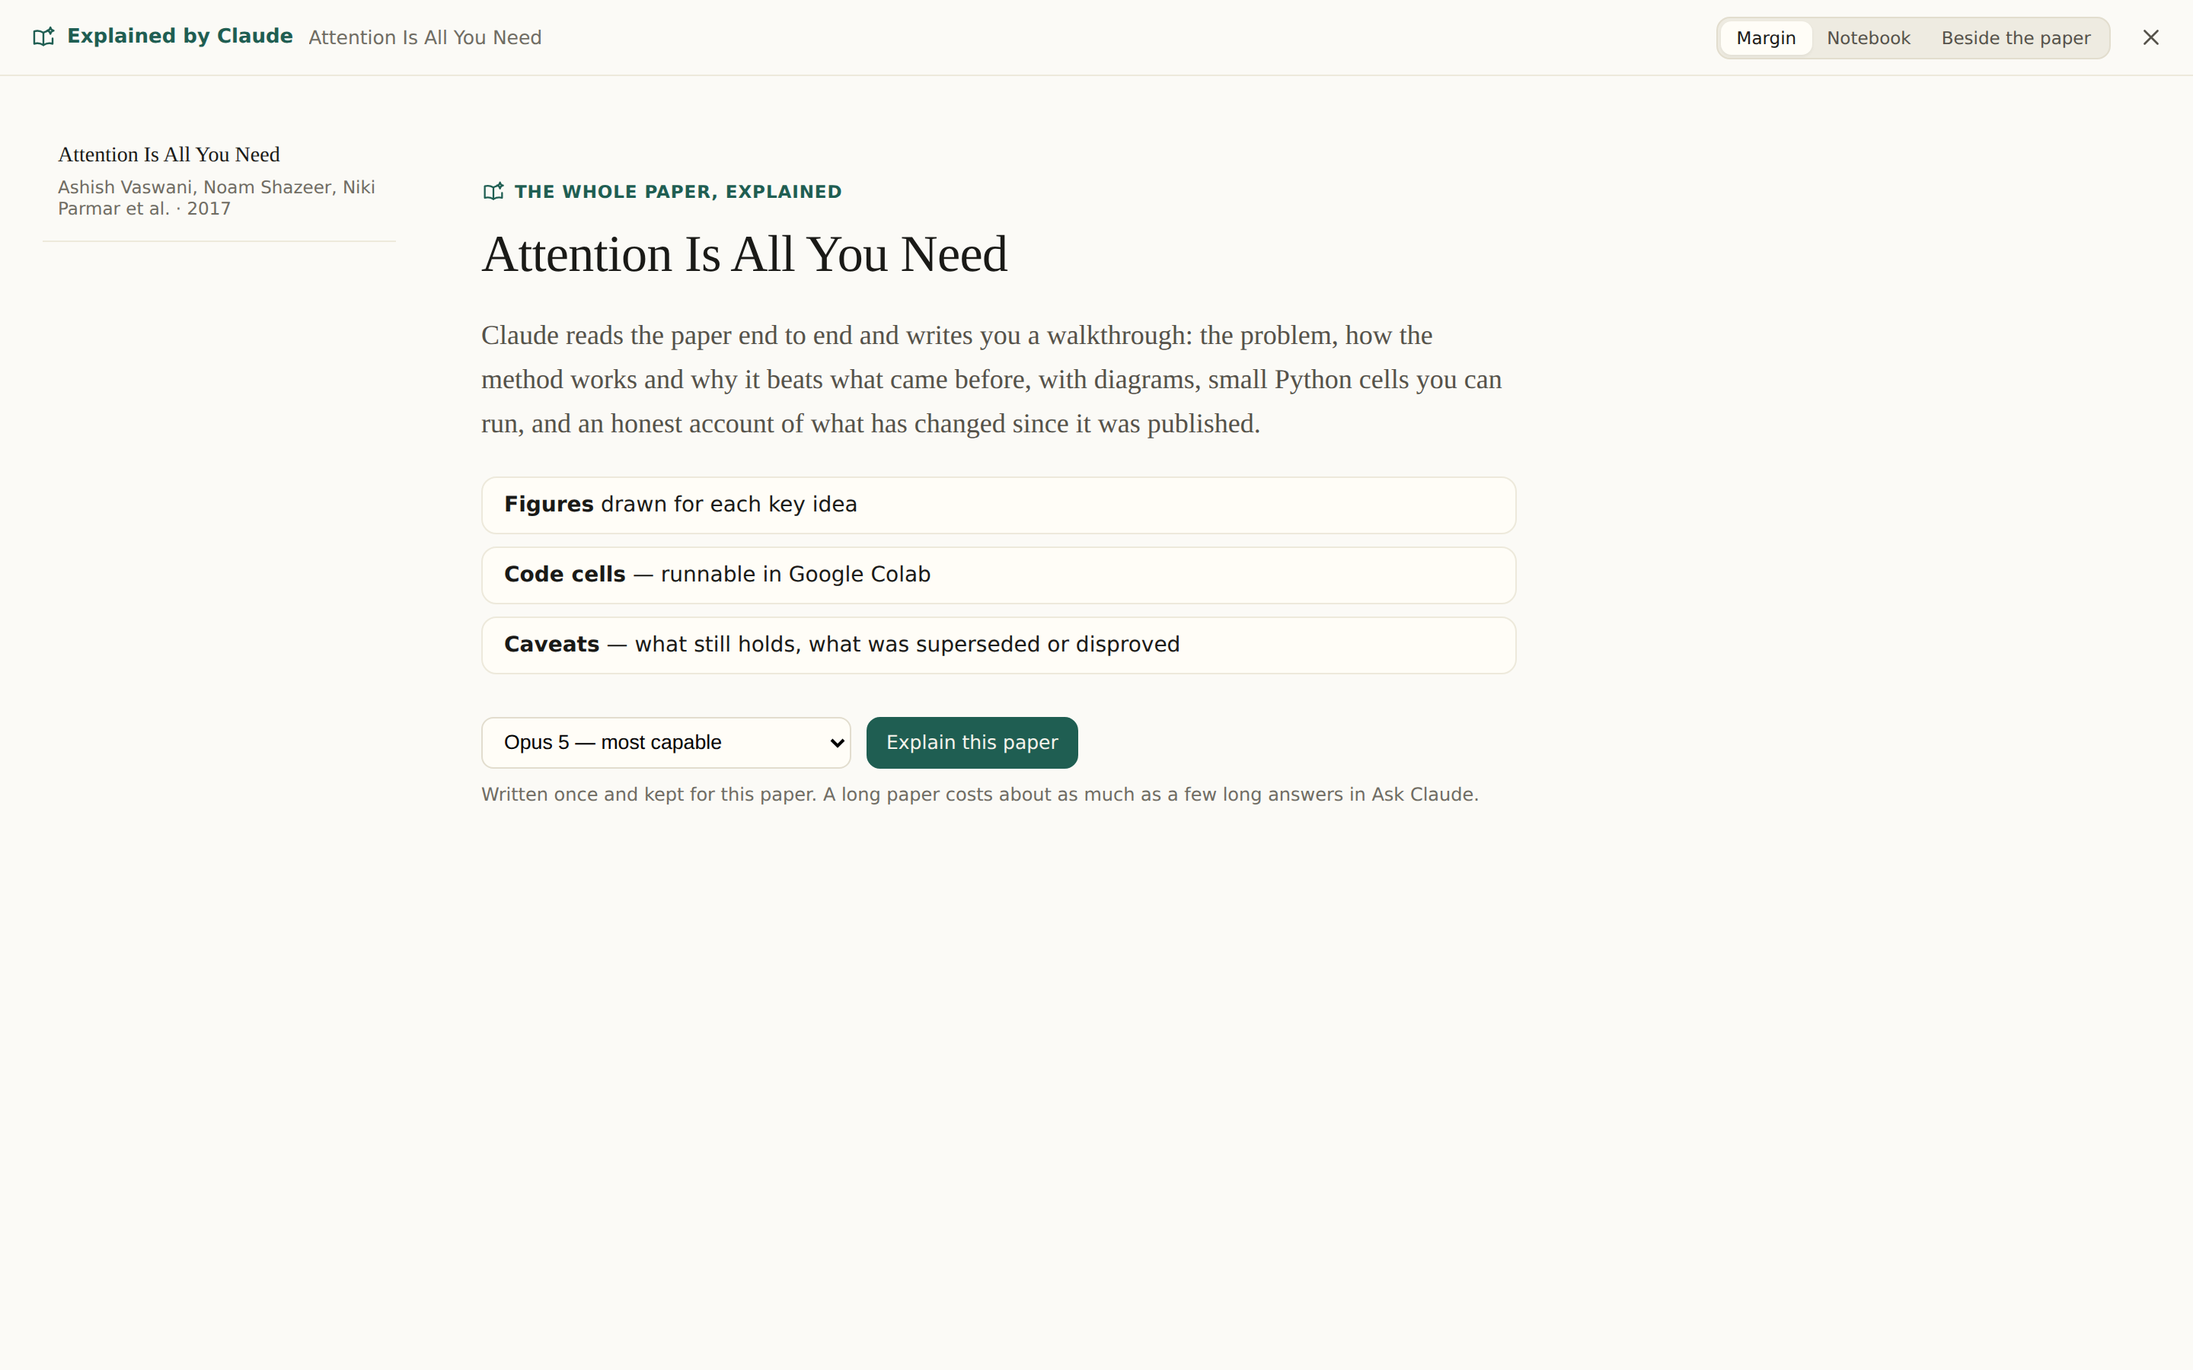
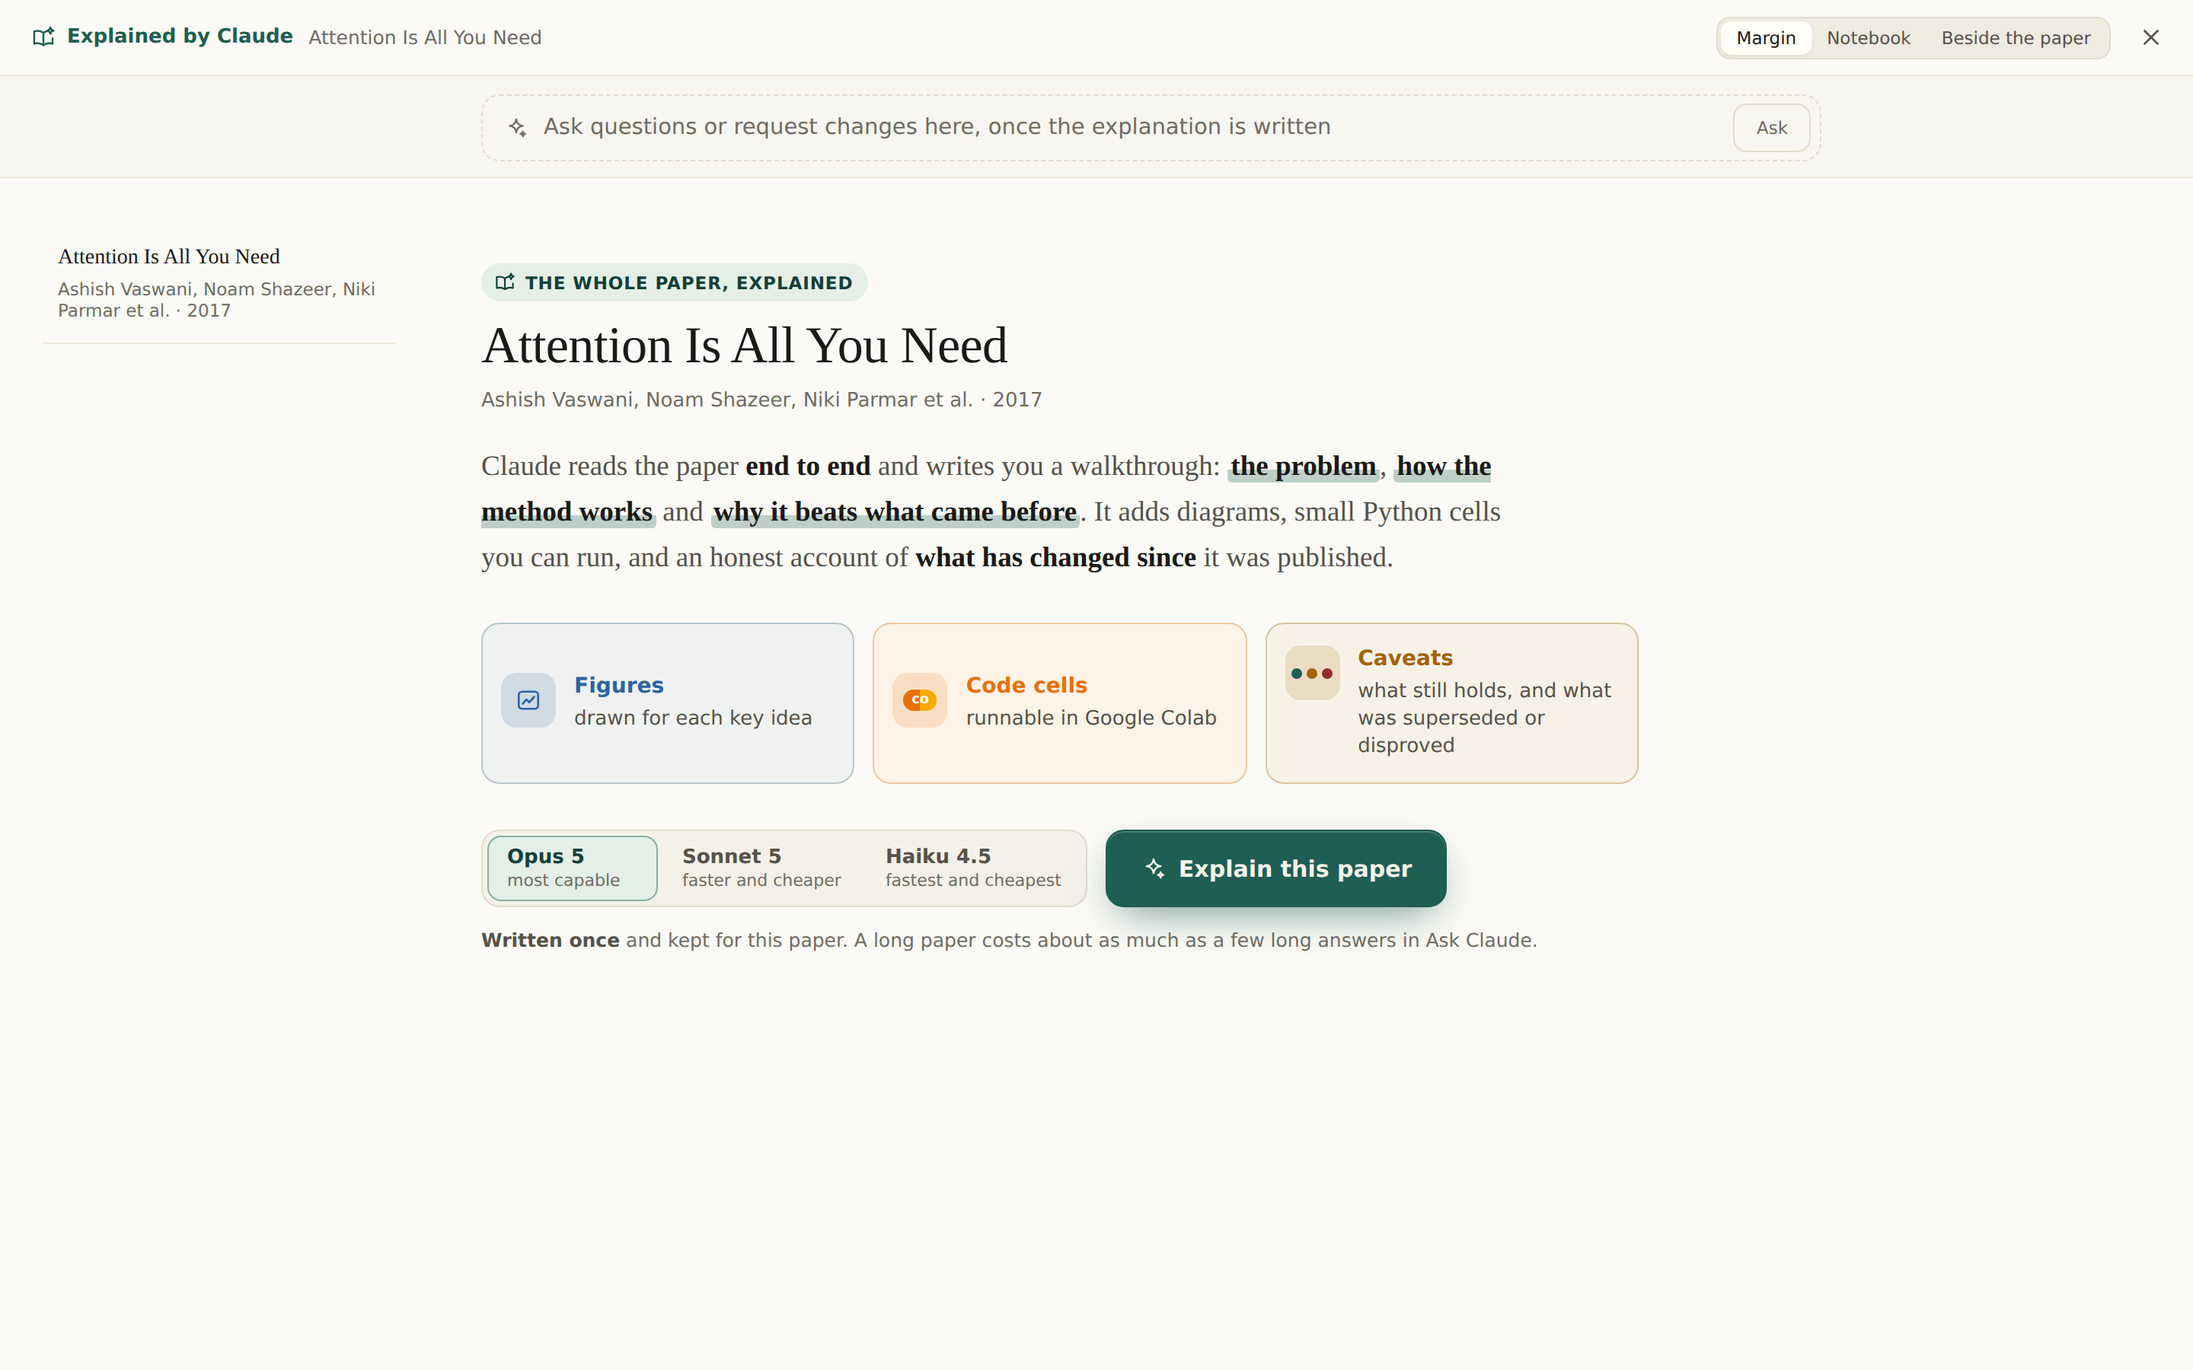
Explain: frost the page in glass, and give the start screen a hierarchy
In glass the page blurs the reader behind it instead of letting its text
show through sharp, keeping the wallpaper's colour. The start screen gets a
pill kicker, the byline, key phrases marked in the lede, three coloured
cards (figures, code cells, caveats), the model as a picker rather than a
select, and a larger Explain button. The ask bar is dashed and muted until
there is a page to ask about, and bold in the explanation reads as a
highlighter stroke. The smoke test photographs dark and light glass.

Claude-Session: https://claude.ai/code/session_01JRvxerTSNWCdTXjyRBgBbC

diff --git a/src/components/Explain.tsx b/src/components/Explain.tsx
@@ -423,7 +423,7 @@ export default function Explain({ paperId, title, authors, published, screen, on
       <div className="explain-ask">
         <div className="ask-column">
           <form
-            className={`ask-field${busy ? ' is-busy' : ''}${askFocused ? ' is-focused' : ''}`}
+            className={`ask-field${busy ? ' is-busy' : ''}${askFocused ? ' is-focused' : ''}${!canAsk ? ' is-off' : ''}`}
             onSubmit={(event) => {
               event.preventDefault();
               void submit();
@@ -466,7 +466,7 @@ export default function Explain({ paperId, title, authors, published, screen, on
               }}
               placeholder={
                 !explanation?.content
-                  ? 'Once the explanation is written, ask about it or change it here'
+                  ? 'Ask questions or request changes here, once the explanation is written'
                   : scope.section || scope.quote
                     ? 'Ask about this, or say how to change it…'
                     : 'Ask anything about this explanation, or tell Claude how to change it…  ( / )'
@@ -575,53 +575,83 @@ export default function Explain({ paperId, title, authors, published, screen, on
         <article className="explain-doc" onMouseUp={takeSelection}>
           {!explanation?.content && checked && !streaming ? (
             <div className="explain-empty">
-              <div className="explain-kicker">
-                <ExplainIcon size={16} /> The whole paper, explained
+              <div className="explain-kicker pill">
+                <ExplainIcon size={15} /> The whole paper, explained
               </div>
               <h1>{title}</h1>
-              <p>
-                Claude reads the paper end to end and writes you a walkthrough: the problem, how the method works and why it beats what came before,
-                with diagrams, small Python cells you can run, and an honest account of what has changed since it was published.
+              {byline ? <div className="byline">{byline}</div> : null}
+              <p className="explain-lede">
+                Claude reads the paper <b>end to end</b> and writes you a walkthrough: <mark>the problem</mark>, <mark>how the method works</mark> and{' '}
+                <mark>why it beats what came before</mark>. It adds diagrams, small Python cells you can run, and an honest account of{' '}
+                <b>what has changed since</b> it was published.
               </p>
               <ul className="explain-promises">
-                <li>
-                  <b>Figures</b> drawn for each key idea
+                <li className="p-figures">
+                  <span className="promise-icon" aria-hidden="true">
+                    <svg viewBox="0 0 24 24" width="18" height="18" fill="none" stroke="currentColor" strokeWidth="1.8" strokeLinecap="round" strokeLinejoin="round">
+                      <rect x="3.5" y="4.5" width="17" height="15" rx="3" />
+                      <path d="M7 15l3.2-3.6 2.6 2.4L17 9" />
+                    </svg>
+                  </span>
+                  <b>Figures</b>
+                  <span>drawn for each key idea</span>
                 </li>
-                <li>
-                  <b>Code cells</b> — runnable in Google Colab
+                <li className="p-code">
+                  <span className="promise-icon" aria-hidden="true">
+                    <span className="colab-mark">co</span>
+                  </span>
+                  <b>Code cells</b>
+                  <span>runnable in Google Colab</span>
                 </li>
-                <li>
-                  <b>Caveats</b> — what still holds, what was superseded or disproved
+                <li className="p-caveats">
+                  <span className="promise-icon" aria-hidden="true">
+                    <span className="dots">
+                      <i className="v-holds" />
+                      <i className="v-superseded" />
+                      <i className="v-disproved" />
+                    </span>
+                  </span>
+                  <b>Caveats</b>
+                  <span>what still holds, and what was superseded or disproved</span>
                 </li>
               </ul>
               {assistant.hasKey ? (
-                <div className="explain-start">
-                  <select value={model} onChange={(event) => setModel(event.target.value)} aria-label="Model">
-                    {MODELS.map((m) => (
-                      <option key={m.id} value={m.id}>
-                        {m.label} — {m.note}
-                      </option>
-                    ))}
-                  </select>
-                  <button type="button" className="btn primary" onClick={() => void start()}>
-                    Explain this paper
-                  </button>
-                  <span className="hint">Written once and kept for this paper. A long paper costs about as much as a few long answers in Ask Claude.</span>
-                </div>
+                <>
+                  <div className="explain-start">
+                    <div className="model-pick" role="radiogroup" aria-label="Model">
+                      {MODELS.map((m) => (
+                        <button key={m.id} type="button" role="radio" aria-checked={model === m.id} onClick={() => setModel(m.id)}>
+                          <b>{m.label}</b>
+                          <span>{m.note}</span>
+                        </button>
+                      ))}
+                    </div>
+                    <button type="button" className="btn primary cta" onClick={() => void start()}>
+                      <SparkleIcon size={17} /> Explain this paper
+                    </button>
+                  </div>
+                  <p className="hint">
+                    <b>Written once</b> and kept for this paper. A long paper costs about as much as a few long answers in Ask Claude.
+                  </p>
+                </>
               ) : (
-                <form
-                  className="explain-start"
-                  onSubmit={(event) => {
-                    event.preventDefault();
-                    saveKey(keyDraft);
-                  }}
-                >
-                  <input type="password" placeholder="sk-ant-…" value={keyDraft} onChange={(event) => setKeyDraft(event.target.value)} aria-label="Anthropic API key" />
-                  <button type="submit" className="btn primary" disabled={!keyDraft.trim()}>
-                    Use this key
-                  </button>
-                  <span className="hint">The same key as Ask Claude. It stays in this browser and goes only to api.anthropic.com.</span>
-                </form>
+                <>
+                  <form
+                    className="explain-start"
+                    onSubmit={(event) => {
+                      event.preventDefault();
+                      saveKey(keyDraft);
+                    }}
+                  >
+                    <input type="password" placeholder="sk-ant-…" value={keyDraft} onChange={(event) => setKeyDraft(event.target.value)} aria-label="Anthropic API key" />
+                    <button type="submit" className="btn primary cta" disabled={!keyDraft.trim()}>
+                      Use this key
+                    </button>
+                  </form>
+                  <p className="hint">
+                    <b>The same key as Ask Claude.</b> It stays in this browser and goes only to api.anthropic.com.
+                  </p>
+                </>
               )}
             </div>
           ) : (

diff --git a/src/styles.css b/src/styles.css
@@ -2725,15 +2725,86 @@ body.win-moving .assistant-win { transition: none; }
 .caveat-body p { margin: 0 0 8px; }
 .caveat-body code { font: 0.88em var(--mono); }
 
-/* Before there is anything to read. */
-.explain-empty { max-width: 680px; padding-top: 24px; }
-.explain-empty p { font: 18px/1.6 var(--serif); color: var(--ink-2); }
-.explain-promises { list-style: none; padding: 0; margin: 20px 0 28px; display: grid; gap: 8px; }
-.explain-promises li { padding: 10px 14px; border: 1px solid var(--border-soft); border-radius: 10px; background: var(--surface); }
-.explain-start { display: flex; flex-wrap: wrap; align-items: center; gap: 10px; }
-.explain-start select, .explain-start input { height: 34px; padding: 0 10px; border: 1px solid var(--border); border-radius: 8px; background: var(--surface); }
-.explain-start input { width: 280px; font-family: var(--mono); }
-.explain-start .hint { flex-basis: 100%; font-size: 12px; color: var(--muted); }
+/* Before there is anything to read: what you will get, and one clear way to get it. */
+.explain-empty { max-width: 760px; padding-top: 12px; }
+.explain-kicker.pill { padding: 5px 10px 5px 8px; border-radius: 999px; background: var(--accent-soft); color: var(--accent-ink); }
+.explain-empty .byline { color: var(--muted); font-size: 13px; margin-top: -2px; }
+.explain-lede { font: 18.5px/1.62 var(--serif); color: var(--ink-2); margin: 22px 0 26px; max-width: 700px; }
+.explain-lede b { color: var(--ink); font-weight: 600; }
+.explain-lede mark {
+  color: var(--ink); font-weight: 600; padding: 0 2px; border-radius: 3px;
+  background: linear-gradient(transparent 58%, rgb(var(--accent-rgb) / 0.28) 58%);
+}
+.explain-promises { list-style: none; padding: 0; margin: 0 0 30px; display: grid; grid-template-columns: repeat(3, minmax(0, 1fr)); gap: 12px; }
+.explain-promises li {
+  --c: var(--accent);
+  display: grid; grid-template-columns: auto 1fr; grid-template-rows: auto auto; column-gap: 12px; row-gap: 2px; align-content: center;
+  padding: 14px 14px 14px 12px; border-radius: 12px;
+  border: 1px solid color-mix(in srgb, var(--c) 28%, var(--border-soft));
+  background: color-mix(in srgb, var(--c) 7%, var(--surface));
+  font-size: 13px; line-height: 1.4;
+}
+.explain-promises li.p-figures { --c: var(--v-refined); }
+.explain-promises li.p-code { --c: #e8710a; }
+.explain-promises li.p-caveats { --c: var(--v-superseded); }
+.explain-promises .promise-icon {
+  grid-row: span 2; display: grid; place-items: center; width: 36px; height: 36px; border-radius: 10px;
+  color: var(--c); background: color-mix(in srgb, var(--c) 16%, transparent);
+}
+.explain-promises b { align-self: end; font-size: 14px; font-weight: 600; color: var(--c); }
+.explain-promises li > span:last-child { align-self: start; }
+.explain-promises li > span:last-child { color: var(--ink-2); }
+.promise-icon .dots { display: flex; gap: 3px; }
+.promise-icon .dots i { width: 7px; height: 7px; border-radius: 50%; background: var(--c); }
+.explain-start { display: flex; flex-wrap: wrap; align-items: stretch; gap: 12px; }
+.model-pick { display: flex; padding: 3px; gap: 3px; border-radius: 12px; border: 1px solid var(--border); background: var(--panel); }
+.model-pick button {
+  display: flex; flex-direction: column; align-items: flex-start; justify-content: center; gap: 1px;
+  min-width: 112px; padding: 6px 12px; border: 1px solid transparent; border-radius: 9px;
+  background: transparent; cursor: pointer; text-align: left;
+}
+.model-pick button b { font-size: 13px; font-weight: 600; color: var(--ink-2); }
+.model-pick button span { font-size: 11px; color: var(--muted); }
+.model-pick button:hover b { color: var(--ink); }
+.model-pick button[aria-checked='true'] { background: var(--accent-soft); border-color: rgb(var(--accent-rgb) / 0.45); }
+.model-pick button[aria-checked='true'] b { color: var(--accent-ink); }
+.btn.primary.cta {
+  display: inline-flex; align-items: center; gap: 8px;
+  height: auto; min-height: 48px; padding: 0 22px; border-radius: 12px;
+  font-size: 15px; font-weight: 600;
+  box-shadow: 0 10px 28px -10px rgb(var(--accent-rgb) / 0.75), inset 0 1px 0 rgb(255 255 255 / 0.18);
+}
+.btn.primary.cta:hover { filter: brightness(1.1); transform: translateY(-1px); }
+.btn.primary.cta:disabled { box-shadow: none; transform: none; }
+.explain-start input { height: 48px; width: 300px; padding: 0 12px; border: 1px solid var(--border); border-radius: 12px; background: var(--surface); font-family: var(--mono); }
+.explain-empty .hint { margin: 14px 0 0; font-size: 12.5px; color: var(--muted); }
+.explain-empty .hint b { color: var(--ink-2); font-weight: 600; }
+
+/* Bold in the explanation reads as a highlighter stroke, the way you would mark a paper up. */
+.explain-prose strong { font-weight: 650; background: linear-gradient(transparent 62%, var(--hl-yellow) 62%); padding: 0 1px; }
+.explain-prose th strong { background: none; }
+
+/* The ask bar when there is nothing to ask about yet: plainly off, not a green button that does nothing. */
+.ask-field.is-off { border-style: dashed; box-shadow: none; background: transparent; color: var(--muted); }
+.ask-field.is-off .btn.primary { background: transparent; border-color: var(--border); color: var(--muted); opacity: 1; }
+
+/* In glass, the page frosts what is behind it rather than covering it: the
+   colour of the wallpaper and the shape of the paper still come through, but
+   no sharp text competes with the explanation. */
+:root[data-glass='on'] .explain {
+  background: rgb(var(--float-rgb) / calc(var(--float-a) - 0.22));
+  -webkit-backdrop-filter: blur(16px) saturate(150%);
+  backdrop-filter: blur(16px) saturate(150%);
+}
+:root[data-glass='on'] .explain-bar { background: rgb(var(--float-rgb) / 0.35); }
+:root[data-glass='on'] .explain-ask { background: rgb(var(--float-rgb) / 0.22); }
+:root[data-glass='on'] .ask-field:not(.is-off) { background: rgb(var(--float-rgb) / 0.7); }
+:root[data-glass='on'] .explain-promises li { background: color-mix(in srgb, var(--c) 10%, rgb(var(--float-rgb) / 0.5)); }
+:root[data-glass='on'] .model-pick { background: rgb(var(--float-rgb) / 0.5); }
+@supports not ((backdrop-filter: blur(1px)) or (-webkit-backdrop-filter: blur(1px))) {
+  :root[data-glass='on'] .explain { background: rgb(var(--float-rgb) / 0.96); }
+}
+
 .explain-writing { display: flex; align-items: center; gap: 10px; color: var(--muted); font-size: 13px; }
 .explain-error { color: var(--danger); font-size: 13px; }
 
@@ -2751,6 +2822,10 @@ body.win-moving .assistant-win { transition: none; }
   .explain-brand { flex: 1; }
   .explain-bar { padding: 0 6px 0 16px; }
   .explain-title h1, .explain-empty h1 { font-size: 26px; }
+  .explain-promises { grid-template-columns: minmax(0, 1fr); }
+  .model-pick { width: 100%; }
+  .model-pick button { flex: 1; min-width: 0; }
+  .btn.primary.cta { width: 100%; justify-content: center; }
 }
 .explain-bar .btn { white-space: nowrap; flex: none; }
 

diff --git a/README.md b/README.md
@@ -1844,6 +1844,11 @@ It uses the same API key and models as Ask Claude. The paper's full text goes
 in the system prompt behind a cache breakpoint. The explanation is written
 once, streamed onto the page as it arrives, and kept in IndexedDB for that
 paper; **Rewrite** asks again, and can be undone. On a phone it is one column.
+In the glass theme the page frosts the reader behind it rather than covering
+it: the wallpaper's colour still comes through, but no sharp text competes
+with the explanation.
+
+![the start of Explain in dark glass: the promise cards, the model picker and the Explain this paper button over the frosted reader](docs/explain-start-glass.png)
 
 Claude writes plain Markdown, plus four fenced blocks the page draws itself:
 `figure`, `python`, `output` and `caveat verdict="…"`. The prompt and the
